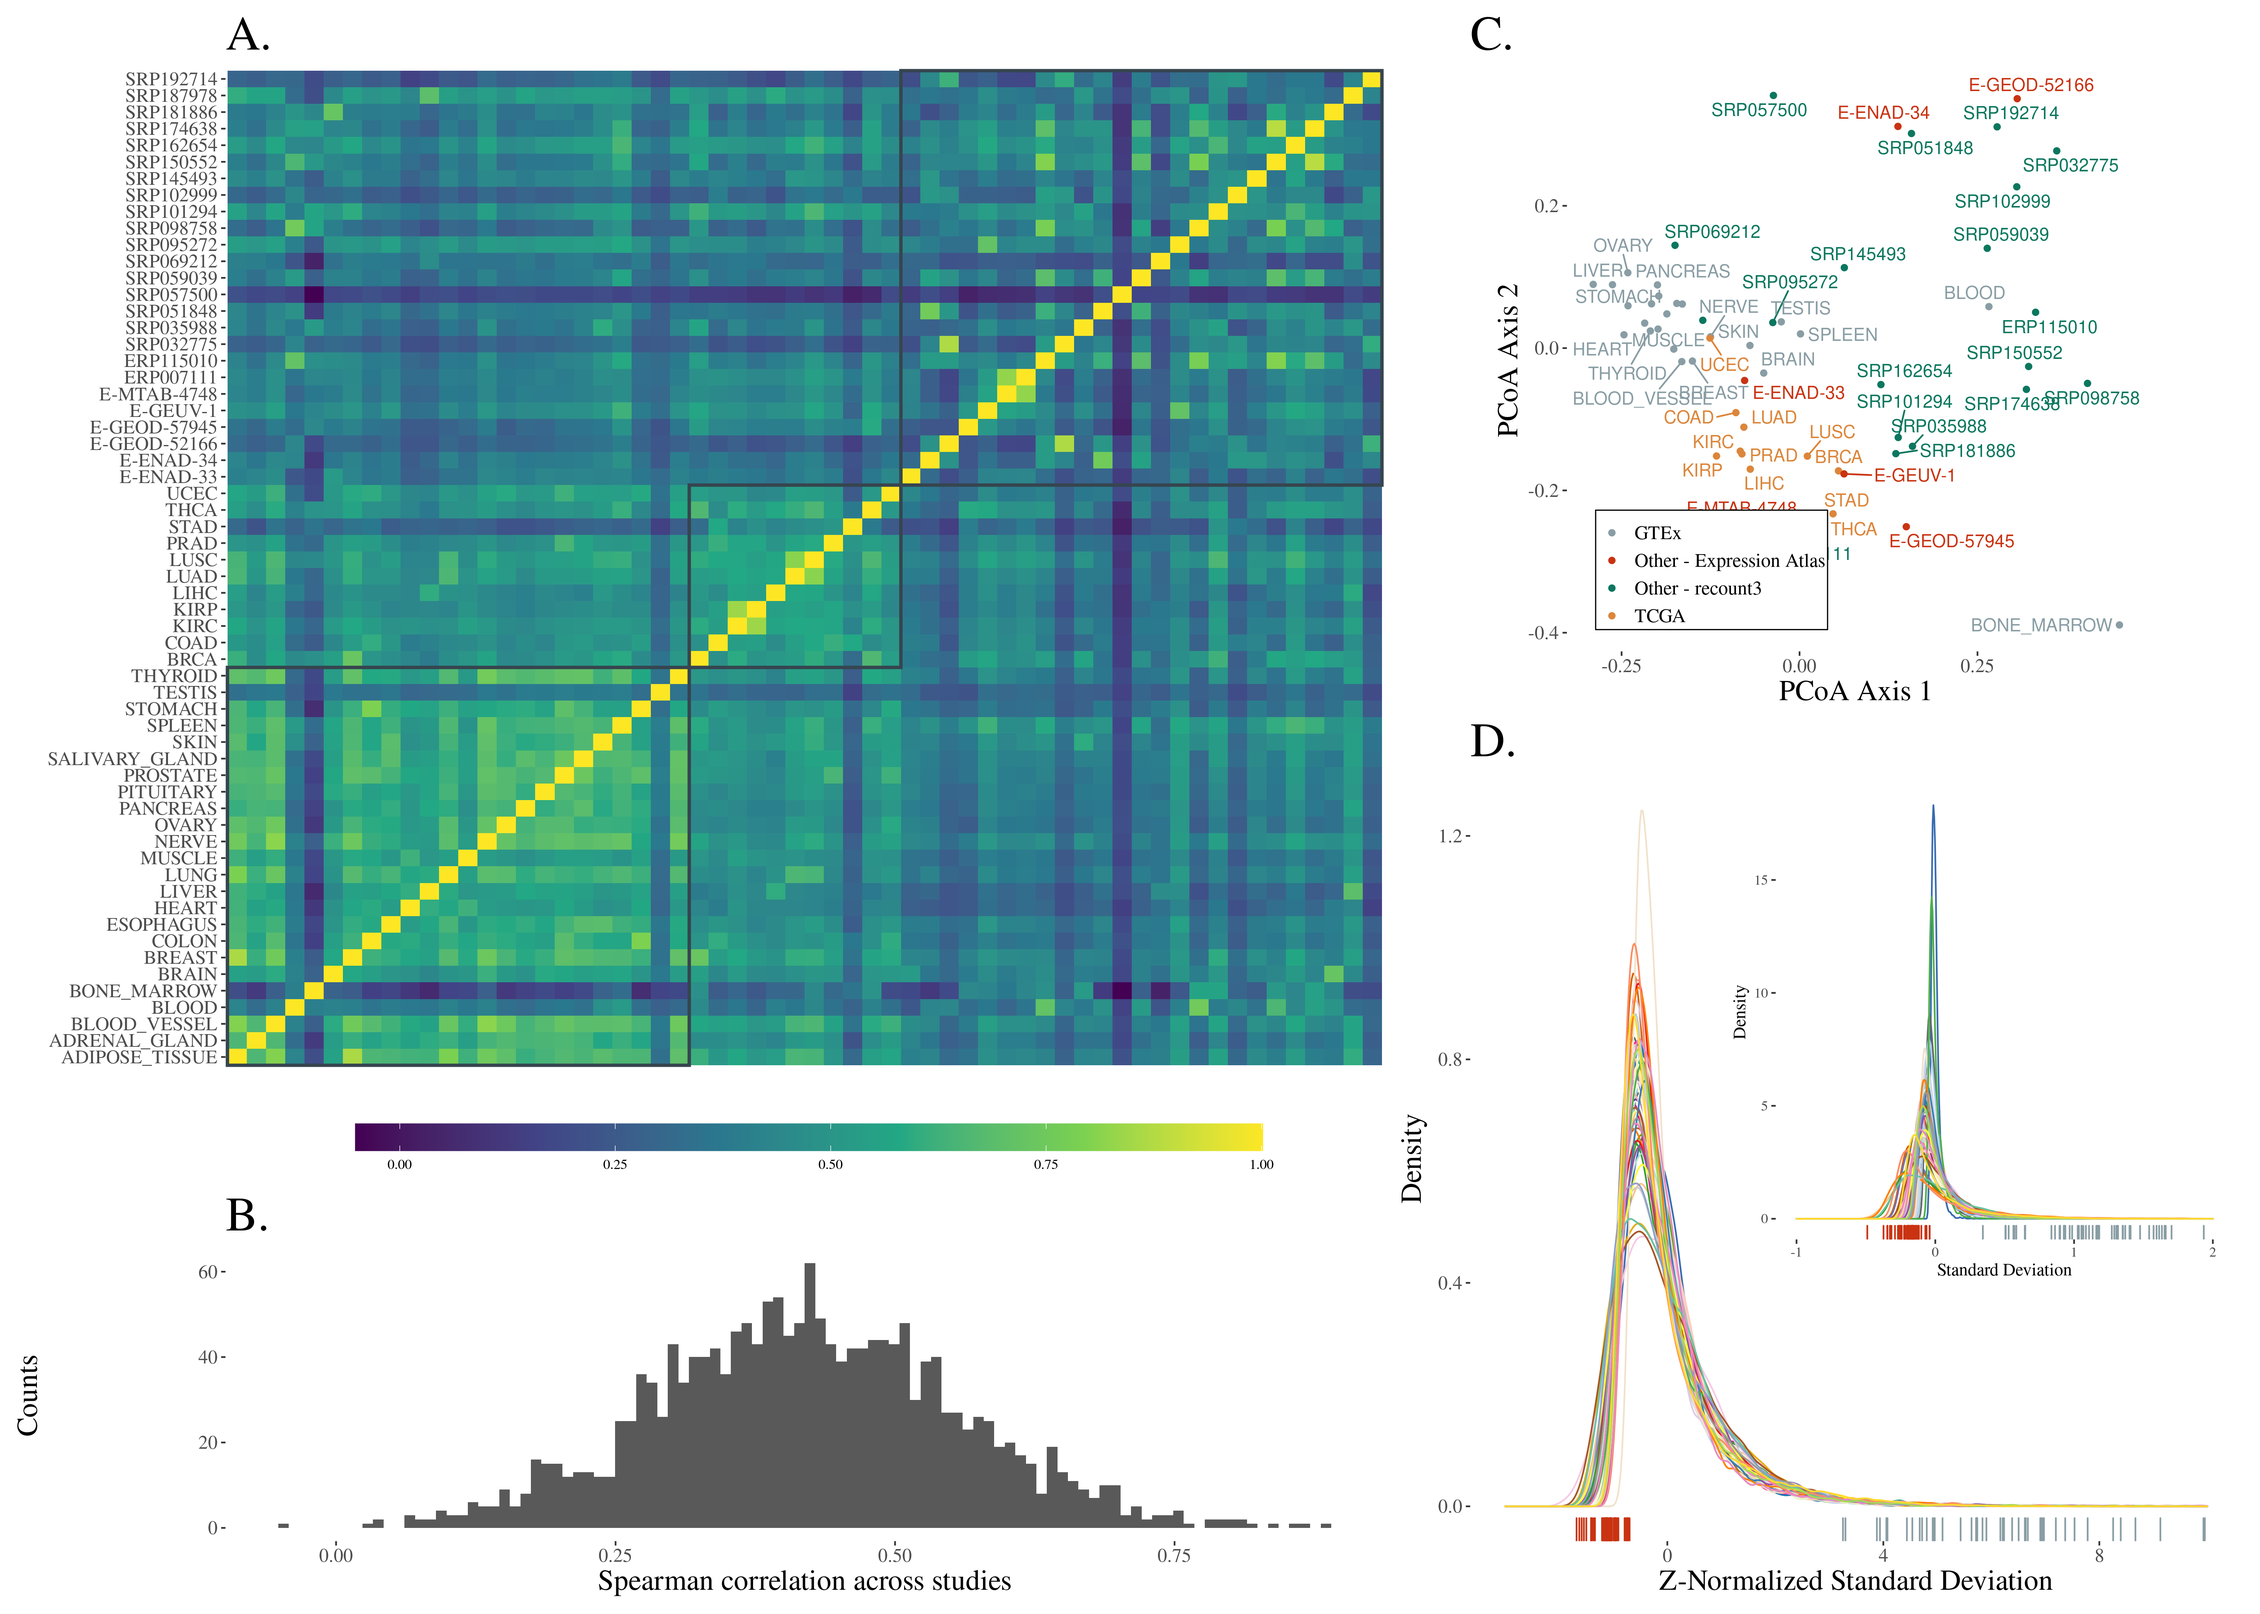
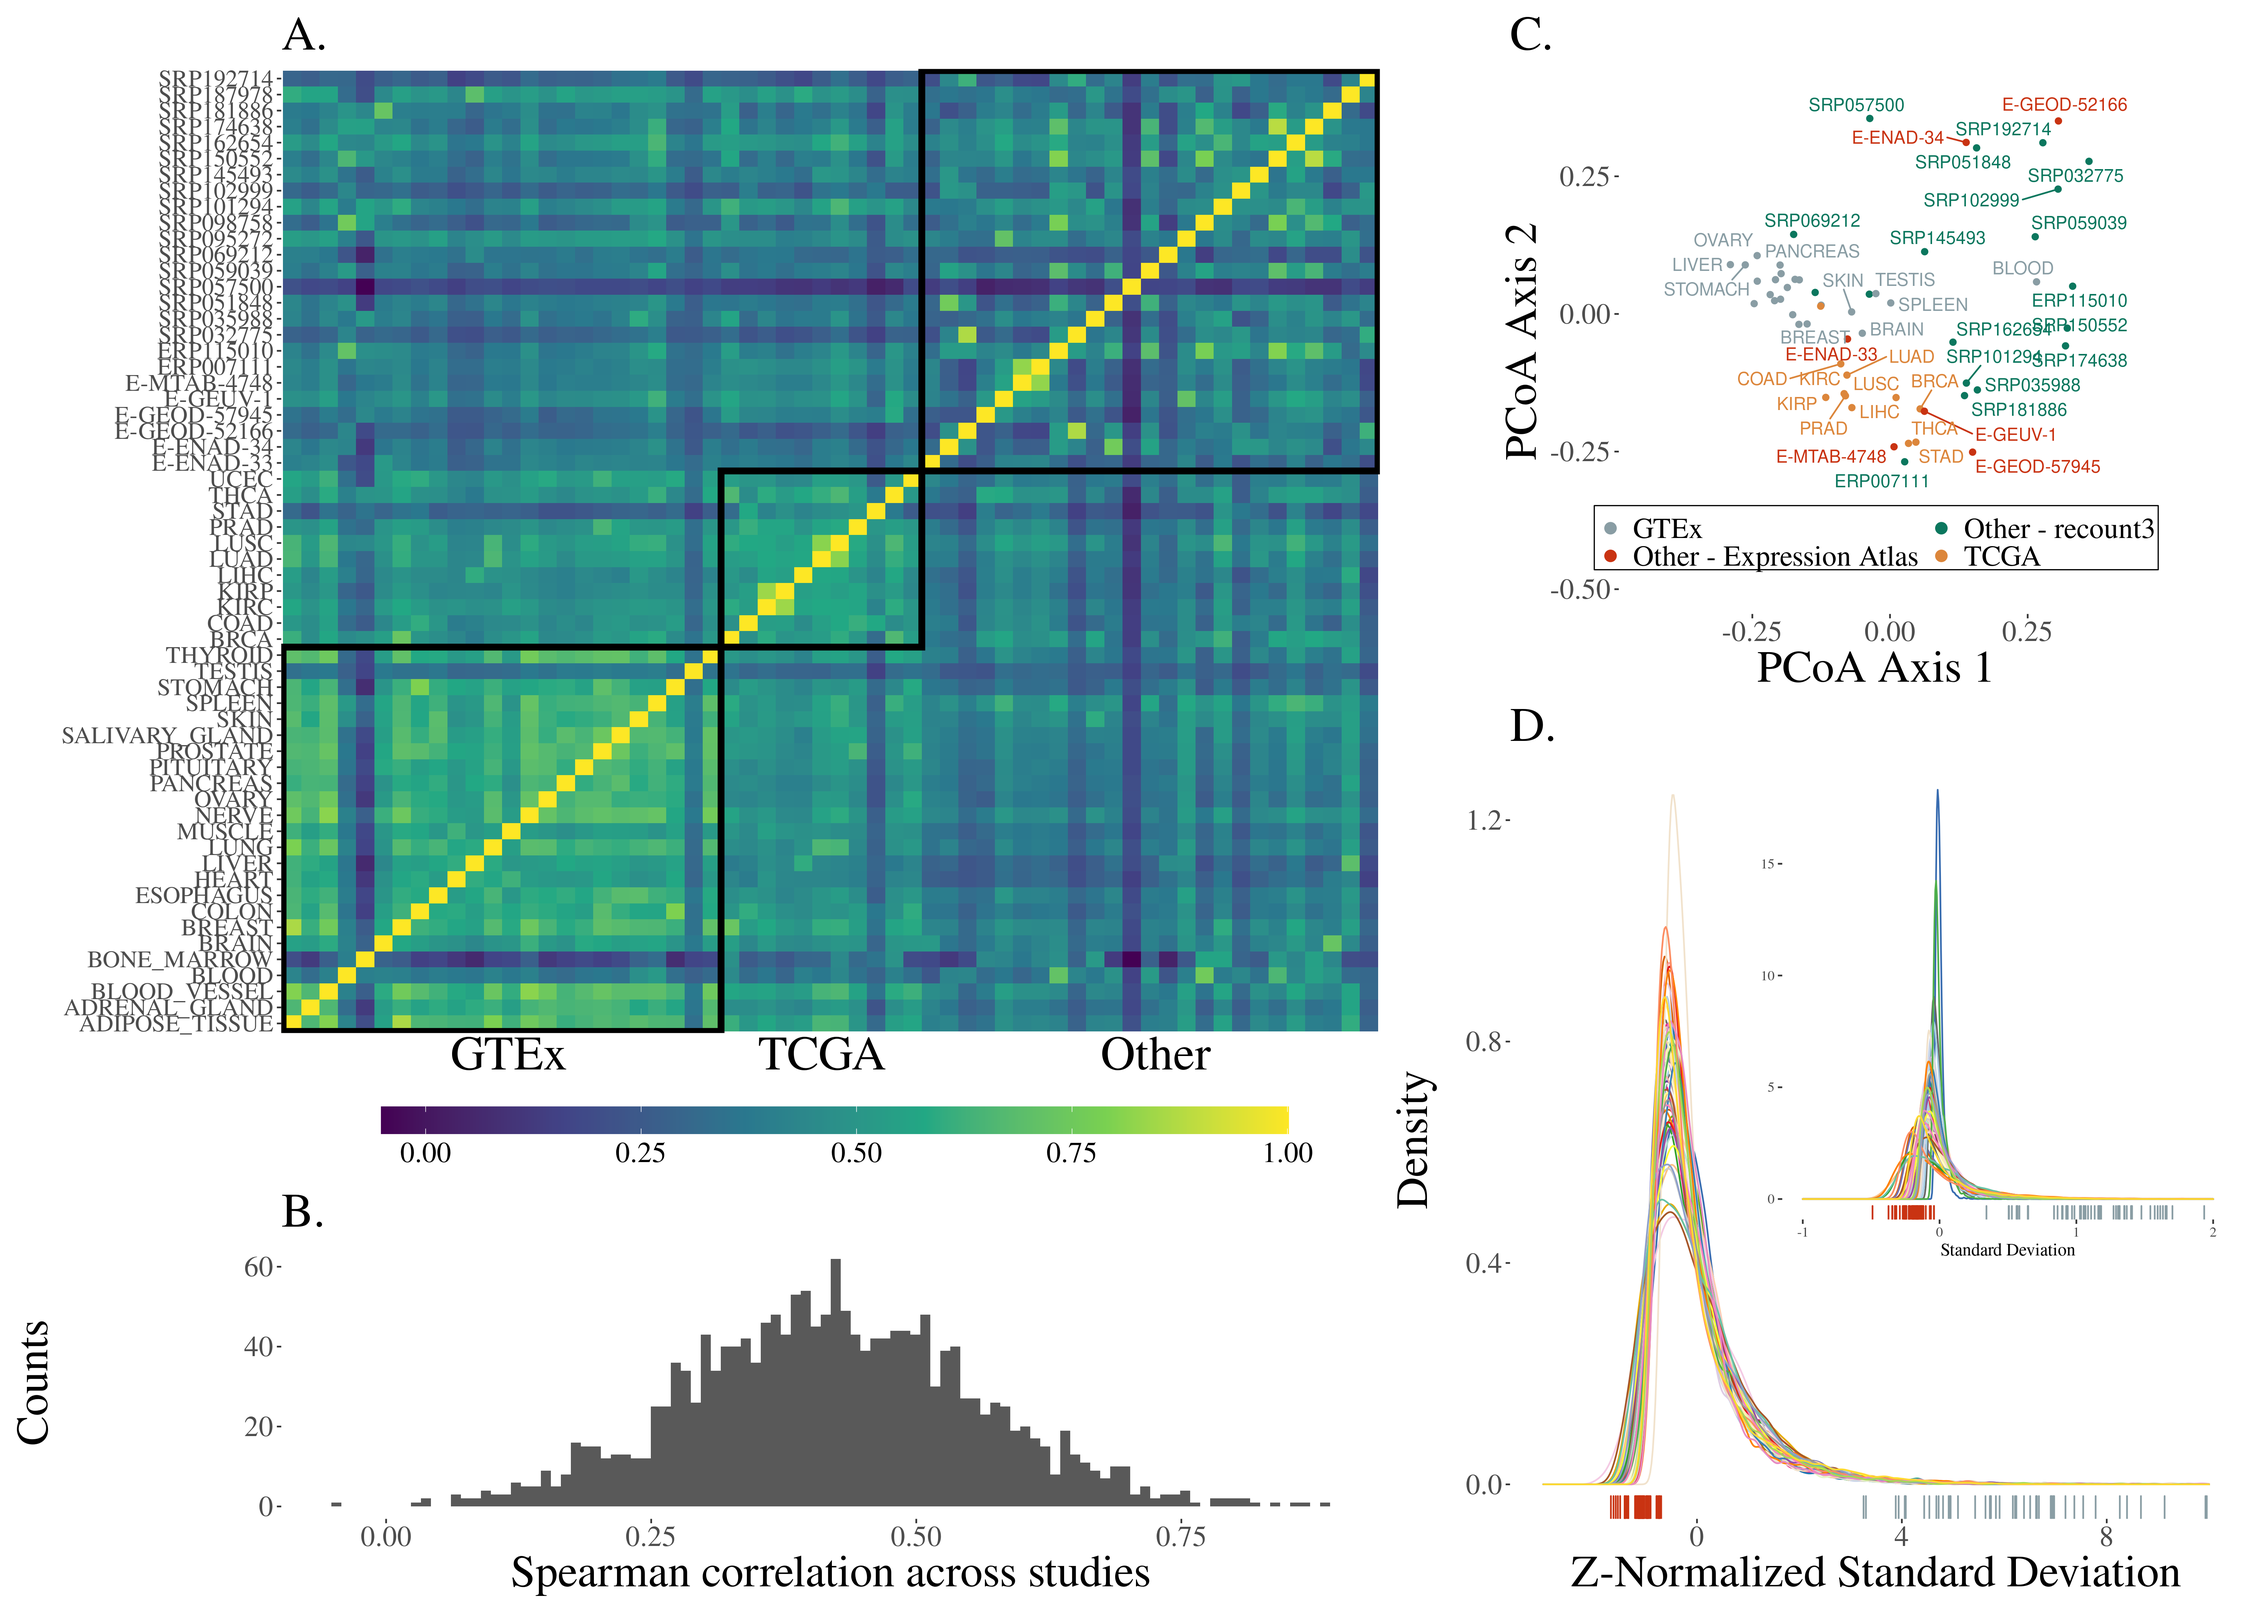
some better figures

diff --git a/main.md b/main.md
@@ -210,7 +210,7 @@ We also explore the distribution of variation among the genes associated with GO
 
 \begin{figure*}[t!]
     \centering
-    \includegraphics[width=\linewidth]{figures/go_skewness.png}
+    \includegraphics[width=\linewidth]{figures/GOterm_decile_barplot.png}
     \caption{Distributions of decile ranks of second level GO terms. Each plot shows the count of genes in each decile of the rank. These GO terms are filtered for gene counts greater than 100 and sorted by the skewness of the distribution. The top panel shows the top 5 and the bottom panel shows the bottom 5.}
     \label{fig:go_skewness}
 \end{figure*}
